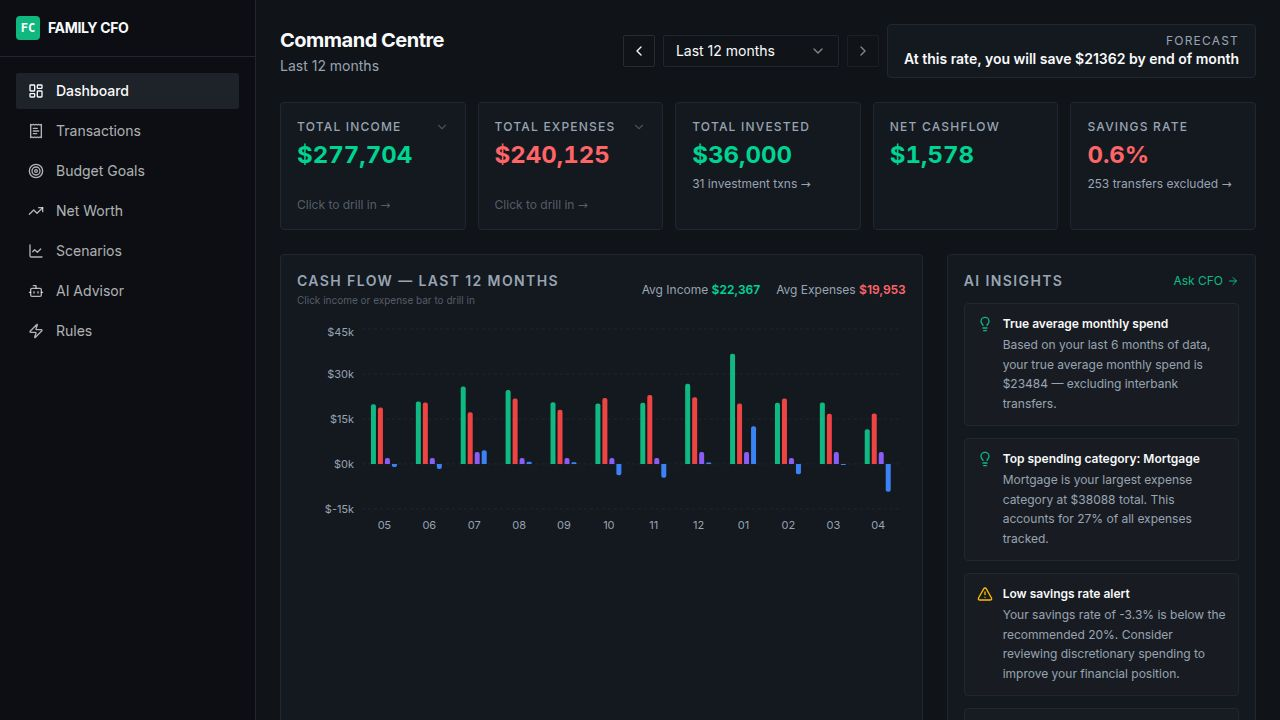
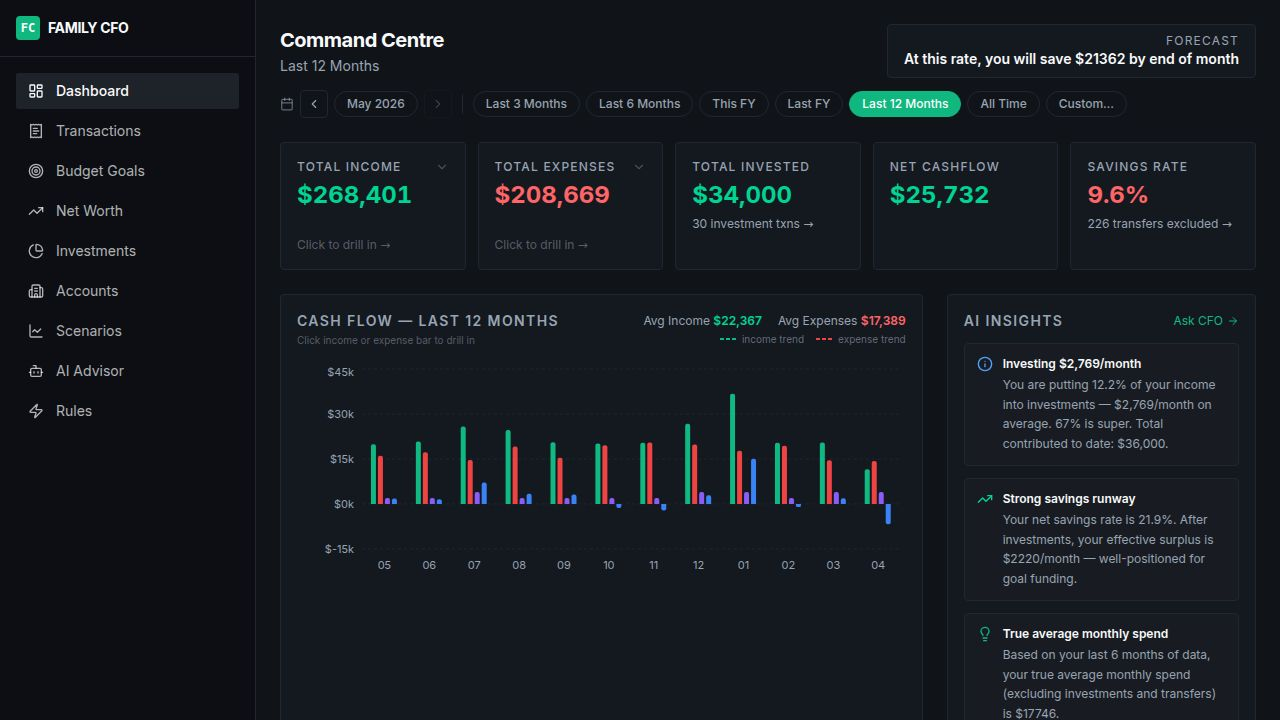
Add ability to re-categorize transactions directly from the dashboard drill-down view
Integrates a category picker into the dashboard's drill-down sheet, allowing users to update transaction categories via a searchable dropdown and API mutations.

Replit-Commit-Author: Agent
Replit-Commit-Session-Id: 98d4d977-3a25-42d6-a590-cc020577eefc
Replit-Commit-Checkpoint-Type: full_checkpoint
Replit-Commit-Event-Id: fc138c8a-9d27-48e8-9f58-a4f8a4465301
Replit-Commit-Screenshot-Url: https://storage.googleapis.com/screenshot-production-us-central1/6766a43b-bc52-4f16-a8e0-06816d433179/98d4d977-3a25-42d6-a590-cc020577eefc/KCUbZQN
Replit-Helium-Checkpoint-Created: true

diff --git a/artifacts/family-cfo/src/pages/dashboard.tsx b/artifacts/family-cfo/src/pages/dashboard.tsx
@@ -14,20 +14,29 @@ import {
   getGetAiInsightsQueryKey,
   useListTransactions,
   getListTransactionsQueryKey,
+  useUpdateTransaction,
 } from "@workspace/api-client-react";
+import { useQueryClient } from "@tanstack/react-query";
 import {
   ComposedChart, Bar, XAxis, YAxis, CartesianGrid, Tooltip, ResponsiveContainer,
   PieChart, Pie, Cell, Line,
 } from "recharts";
 import {
   TrendingUp, ArrowRight, AlertTriangle, Lightbulb, Info, CheckCircle,
-  ChevronLeft, ChevronRight, ChevronDown, ExternalLink, Calendar,
+  ChevronLeft, ChevronRight, ChevronDown, ExternalLink, Calendar, ChevronsUpDown, Check,
 } from "lucide-react";
 import { Link, useLocation } from "wouter";
 import { Button } from "@/components/ui/button";
 import {
   Sheet, SheetContent, SheetHeader, SheetTitle,
 } from "@/components/ui/sheet";
+import {
+  Popover, PopoverContent, PopoverTrigger,
+} from "@/components/ui/popover";
+import {
+  Command, CommandEmpty, CommandGroup, CommandInput, CommandItem, CommandList,
+} from "@/components/ui/command";
+import { useToast } from "@/hooks/use-toast";
 
 const CHART_COLORS = ["#10b981", "#3b82f6", "#8b5cf6", "#f59e0b", "#ef4444", "#06b6d4", "#ec4899", "#84cc16"];
 const BASE = import.meta.env.BASE_URL;
@@ -183,6 +192,67 @@ interface CategoryRow {
   percentage: number;
 }
 
+// ── Category Picker Button ────────────────────────────────────────────────
+
+function CategoryPickerButton({
+  txId,
+  currentCategory,
+  allCategories,
+  onCategoryChange,
+  isLoading,
+}: {
+  txId: string;
+  currentCategory: string | null;
+  allCategories: string[];
+  onCategoryChange: (txId: string, newCat: string) => void;
+  isLoading: boolean;
+}) {
+  const [open, setOpen] = useState(false);
+
+  const handleSelect = (cat: string) => {
+    if (cat === currentCategory) { setOpen(false); return; }
+    onCategoryChange(txId, cat);
+    setOpen(false);
+  };
+
+  return (
+    <Popover open={open} onOpenChange={setOpen}>
+      <PopoverTrigger asChild>
+        <button
+          className="group flex items-center gap-1 bg-secondary text-secondary-foreground hover:bg-primary/10 hover:text-primary border border-transparent hover:border-primary/30 px-2 py-0.5 rounded text-xs transition-colors"
+          title="Click to recategorise"
+          disabled={isLoading}
+        >
+          <span className="truncate max-w-[100px]">{currentCategory ?? "—"}</span>
+          <ChevronsUpDown className="w-2.5 h-2.5 opacity-0 group-hover:opacity-60 transition-opacity flex-shrink-0" />
+        </button>
+      </PopoverTrigger>
+      <PopoverContent className="w-56 p-0" align="start">
+        <Command>
+          <CommandInput placeholder="Search categories..." className="h-8 text-xs" />
+          <CommandList>
+            <CommandEmpty>No category found</CommandEmpty>
+            <CommandGroup>
+              {allCategories.map((cat) => (
+                <CommandItem
+                  key={cat}
+                  value={cat}
+                  onSelect={() => handleSelect(cat)}
+                  className="text-xs cursor-pointer"
+                  disabled={isLoading}
+                >
+                  <Check className={`mr-1.5 h-3 w-3 ${cat === currentCategory ? "opacity-100" : "opacity-0"}`} />
+                  {cat}
+                </CommandItem>
+              ))}
+            </CommandGroup>
+          </CommandList>
+        </Command>
+      </PopoverContent>
+    </Popover>
+  );
+}
+
 // ── Category drilldown sheet ───────────────────────────────────────────────
 
 function DrillDownSheet({
@@ -193,11 +263,15 @@ function DrillDownSheet({
   onClose: () => void;
 }) {
   const [, navigate] = useLocation();
+  const { toast } = useToast();
+  const queryClient = useQueryClient();
+  const updateMutation = useUpdateTransaction();
   const [selectedCategory, setSelectedCategory] = useState<string | null>(null);
   const [categories, setCategories] = useState<CategoryRow[]>([]);
   const [total, setTotal] = useState(0);
   const [catLoading, setCatLoading] = useState(false);
   const [catSearch, setCatSearch] = useState("");
+  const [allCategories, setAllCategories] = useState<string[]>([]);
 
   // Transactions level state
   const [txPage, setTxPage] = useState(1);
@@ -225,6 +299,14 @@ function DrillDownSheet({
     }
   );
 
+  // Fetch all available categories on mount
+  useEffect(() => {
+    fetch(`${BASE}api/transactions/categories`)
+      .then((r) => r.json())
+      .then((d) => setAllCategories(d.categories ?? []))
+      .catch(() => {});
+  }, []);
+
   // Fetch categories when drill state changes
   useEffect(() => {
     if (!drill) { setCategories([]); setSelectedCategory(null); setCatSearch(""); return; }
@@ -244,6 +326,19 @@ function DrillDownSheet({
 
   // Reset tx page when category changes
   useEffect(() => { setTxPage(1); }, [selectedCategory]);
+
+  const handleCategoryChange = (txId: string, newCat: string) => {
+    updateMutation.mutate(
+      { id: txId, data: { userCategory: newCat } },
+      {
+        onSuccess: () => {
+          queryClient.invalidateQueries({ queryKey: getListTransactionsQueryKey(txParams ?? { page: 1, limit: TX_LIMIT }) });
+          toast({ title: "Category updated", description: `Recategorised as "${newCat}"` });
+        },
+        onError: () => toast({ title: "Failed to update category", variant: "destructive" }),
+      }
+    );
+  };
 
   if (!drill) return null;
 
@@ -428,7 +523,7 @@ function DrillDownSheet({
                         className="flex items-center gap-3 py-2.5 px-2 -mx-2 rounded-lg hover:bg-muted/40 transition-colors border-b border-border last:border-0"
                       >
                         {/* Date */}
-                        <div className="flex-shrink-0 w-20 text-right">
+                        <div className="flex-shrink-0 w-16 text-right">
                           <span className="text-xs text-muted-foreground">{tx.transactionDate}</span>
                         </div>
                         {/* Description */}
@@ -441,8 +536,18 @@ function DrillDownSheet({
                           )}
                           <p className="text-xs text-muted-foreground">{tx.accountName}</p>
                         </div>
+                        {/* Category Picker */}
+                        <div className="flex-shrink-0">
+                          <CategoryPickerButton
+                            txId={tx.id}
+                            currentCategory={tx.userCategory ?? tx.categoryName}
+                            allCategories={allCategories}
+                            onCategoryChange={handleCategoryChange}
+                            isLoading={updateMutation.isPending}
+                          />
+                        </div>
                         {/* Amount */}
-                        <div className="flex-shrink-0 text-right">
+                        <div className="flex-shrink-0 w-20 text-right">
                           <span className={`text-sm font-semibold tabular-nums ${isIncome ? "text-emerald-400" : "text-foreground"}`}>
                             {isIncome ? "+" : "-"}{formatCurrencyFull(tx.amount)}
                           </span>